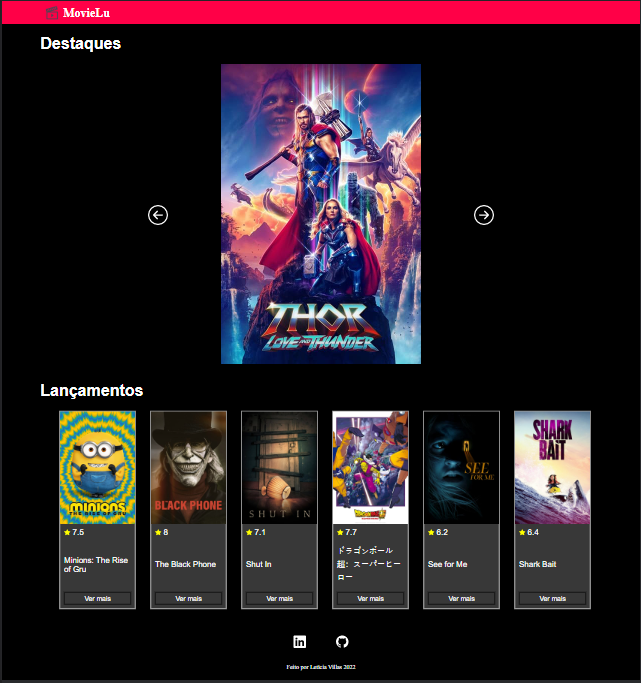
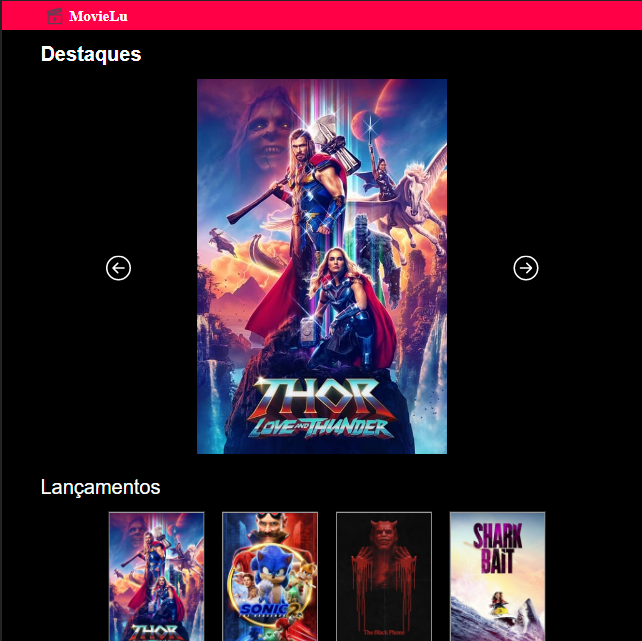
ajustes-p3

diff --git a/src/components/ProjectCard/styles.js b/src/components/ProjectCard/styles.js
@@ -1,12 +1,15 @@
 import styled from 'styled-components';
 
 const ProjectCardDiv = styled.div`
-  width: 200px;
+  width: 300px;
   height: 300px;
-  border: 1px solid red;
+  border: 1px solid pink;
   background-size: cover;
 
   &:hover {
+    -webkit-transform: scale(1.05);
+    transform: scale(1.05);
+
     span {
       opacity: 100%;
       cursor: pointer;
@@ -15,7 +18,14 @@ const ProjectCardDiv = styled.div`
       opacity: 0.5;
     }
   }
+  cursor: pointer;
   position: relative;
+`;
+
+const ProjectDiv = styled.div`
+  display: flex;
+  flex-wrap: wrap;
+  gap: 20px;
 `;
 const BlackDiv = styled.div`
   background: black;
@@ -37,4 +47,4 @@ const SpanCard = styled.span`
   font-family: 'Uchen', serif;
 `;
 
-export { ProjectCardDiv, SpanCard, BlackDiv };
+export { ProjectCardDiv, ProjectDiv, SpanCard, BlackDiv };

diff --git a/src/components/Projects/index.js b/src/components/Projects/index.js
@@ -1,11 +1,18 @@
 import ProjectCard from '../ProjectCard';
+import { ProjectDiv } from '../ProjectCard/styles';
 import { Section } from '../Section/styles';
 
 const Projects = () => {
   return (
     <Section>
       <h1>Projetos</h1>
-      <ProjectCard image="/site-movie-lu.png" text="MovieLu" />
+      <ProjectDiv>
+        <ProjectCard image="/site-movie-lu.png" text="MovieLu" />
+        <ProjectCard image="/landing-page.png" text="Landing Page" />
+        <ProjectCard image="/projeto-picpro.png" text="Projeto PicPro" />
+        <ProjectCard image="/to-do-list.png" text="Lista de Atividades" />
+        <ProjectCard image="/projeto-infusion.png" text="Projeto Infusion" />
+      </ProjectDiv>
     </Section>
   );
 };

diff --git a/src/components/FooterBox/styles.js b/src/components/FooterBox/styles.js
@@ -1,11 +1,25 @@
-import styled from 'styled-components';
+import styled, { keyframes } from 'styled-components';
 
+const MoveUpDown = keyframes`
+ 
+  0%, 100% {
+    transform: translateY(0);
+  }
+  50% {
+    transform: translateY(8px);
+  }
+`;
 const FooterBoxDiv = styled.a`
   display: flex;
   flex-direction: column;
   align-items: center;
   color: black;
   text-decoration: none;
+  &:hover {
+    svg{animation: 0.6s linear 0s infinite alternate none running ${MoveUpDown};}
+    
+    }
+  }
 `;
 const SpanTitle = styled.span`
   text-decoration: none;

diff --git a/src/components/Contact/index.js b/src/components/Contact/index.js
@@ -29,7 +29,8 @@ const Contact = () => {
             icon={<Mail width={50} style={{ marginRight: '8px' }} />}
             title="E-mail"
             subtitle="leticia.villasboas99@gmail.com"
-            link="leticia.villasboas99@gmail.com"
+            link="https://mail.google.com/mail/u/0/#inbox?compose=new"
+            target="blank"
           />
           <FooterBox
             icon={<LocationOn width={50} style={{ marginRight: '8px' }} />}

diff --git a/src/components/Summary/index.js b/src/components/Summary/index.js
@@ -22,7 +22,7 @@ const Summary = () => {
             </a>
           </SpanSocialMedia>
           <SpanSocialMedia>
-            <a href="https://github.com/LeticiaLuckow" target="blank">
+            <a href="https://github.com/LeticiaLuckow">
               <Github width={30} color="white" />
             </a>
           </SpanSocialMedia>
